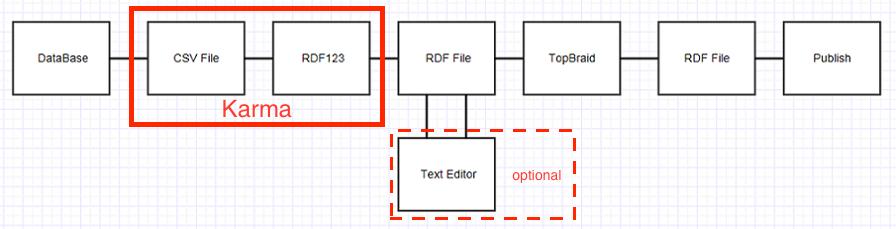
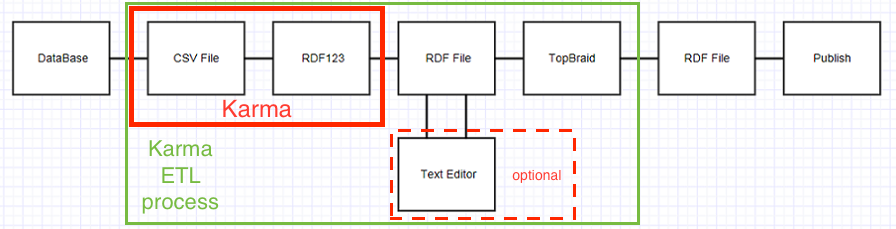
starting the intro

Changed region(s): [[0.125, 0.0, 0.7188, 1.0]]

diff --git a/karma_registry_pipeline.md b/karma_registry_pipeline.md
@@ -1,0 +1,47 @@
+Registering Vocabularies: Karma Integration Tool
+================================================================================
+
+# Contents
+
+  - [Introduction](#Introduction)
+  - [Installation](#Installation)
+  - [Workflow](#Workflow)
+    - [Importing](#Importing)
+    - [Settings](#Settings)
+    - [Modeling](#Modeling)
+    - [Exporting](#Exporting)
+
+
+# Introduction <a id=Introduction />
+This documentation present the [Karma](https://github.com/usc-isi-i2/Web-Karma) software as a suitable integration tool for vocabularies extraction and registry.
+
+Authoritative organizations would to get advantages intern and externally of controlling (_design_) and _publishing_ their common terminology and concepts. It helps on clarity, reusability and mainly increase the effectiveness of the communication once everyone know exactly what it have been talked about.
+
+The flowchart bellow illustrates the whole process.
+![registry workflow](docs/_registry_workflow.png)
+
+The [Linked Data Registry](https://github.com/UKGovLD/registry-core/wiki) creates an administrative and versioning layer on top of RDF linked data triple stores in order to enable publish, management and access to controlled business (domain) entities and terminologies (vocabularies).
+
+More info available in the [Linked Data Registry - Training Slides](http://www.slideshare.net/der42/registry-technical-training)
+
+The common and hardest part is exactly the design. In other words it consists in select collections of concepts, attribute them URIs and mapping them accordingly at least a simple knowledge organization system ([SKOS](https://www.w3.org/2004/02/skos/)). Most of the times the concepts are diffused into spreadsheets or databases schemas and their extraction involves lots of work.
+
+As initially proposed, the extraction, transforming and loading (ETL) process was made by using some intermediate steps as can be seen bellow.
+![proposed pipeline](docs/_previous_workflow.png)
+
+Data was extracted from the databases (RDBMS) into CSV files which could be imported and easily handled by spreadsheet softwares for transforming, cleaning, and include URIs. An intermediate software such as [RDF123](http://ebiquity.umbc.edu/project/html/id/82/RDF123) was used to perform the concept modeling/alignment. If was the case, the initial RDF should be edited _by hand_. Finally the standard (proprietary) RDF tool TopBraid is used to generate the deliverable RDF for publish.
+
+The proposal of this pipeline is to replace potentially  all these intermediate tools (green box) for Karma. It allows users to connect and import data directly from multiple database and file sources, perform many transformations, make a visual model using preloaded ontologies, save/document the models and export the data into many formats including RDF (continuous red box).
+
+
+# Installation <a id=Installation />
+
+# Workflow <a id=Workflow />
+
+## Importing <a id=Importing />
+
+## Settings <a id=Settings />
+
+## Modeling <a id=Modeling />
+
+## Exporting <a id=Exporting />

diff --git a/readme.md b/readme.md
@@ -30,3 +30,9 @@ DockerFile
 The Dockerfile describe an Ubuntu instance of Karma running over Jetty in the port 8080.
 
 The Karma install, compilation and service are made by Java and Maven.
+
+
+More
+----
+
+See also the documentation for the [karma registry pipeline](./karma_registry_pipeline.md)
